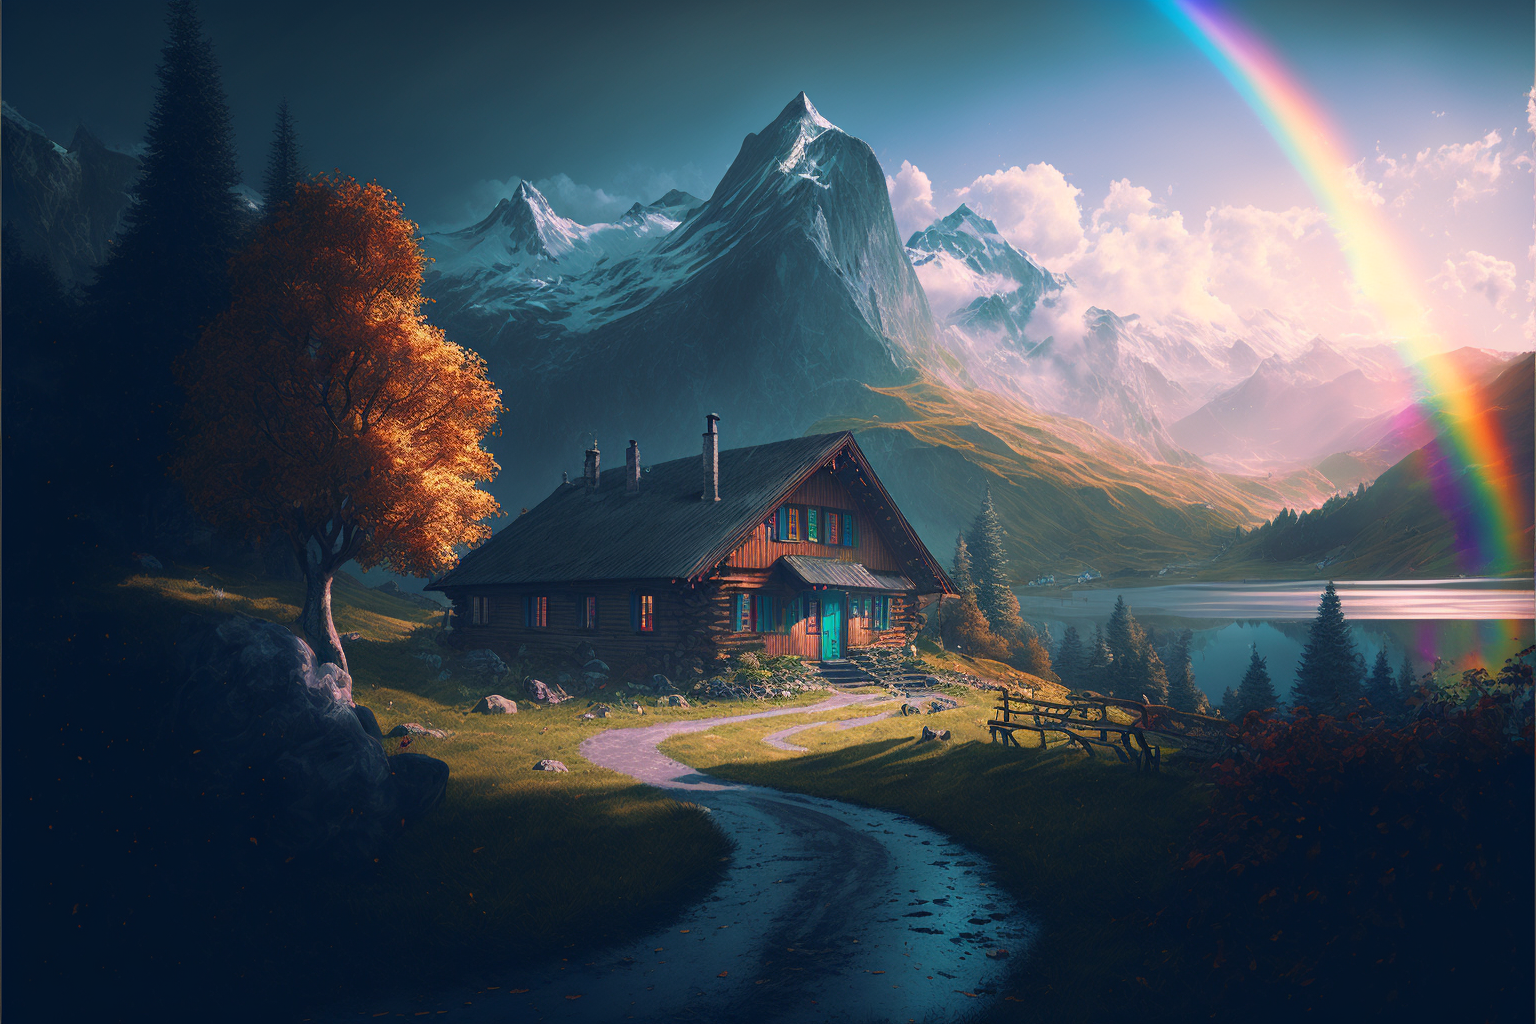
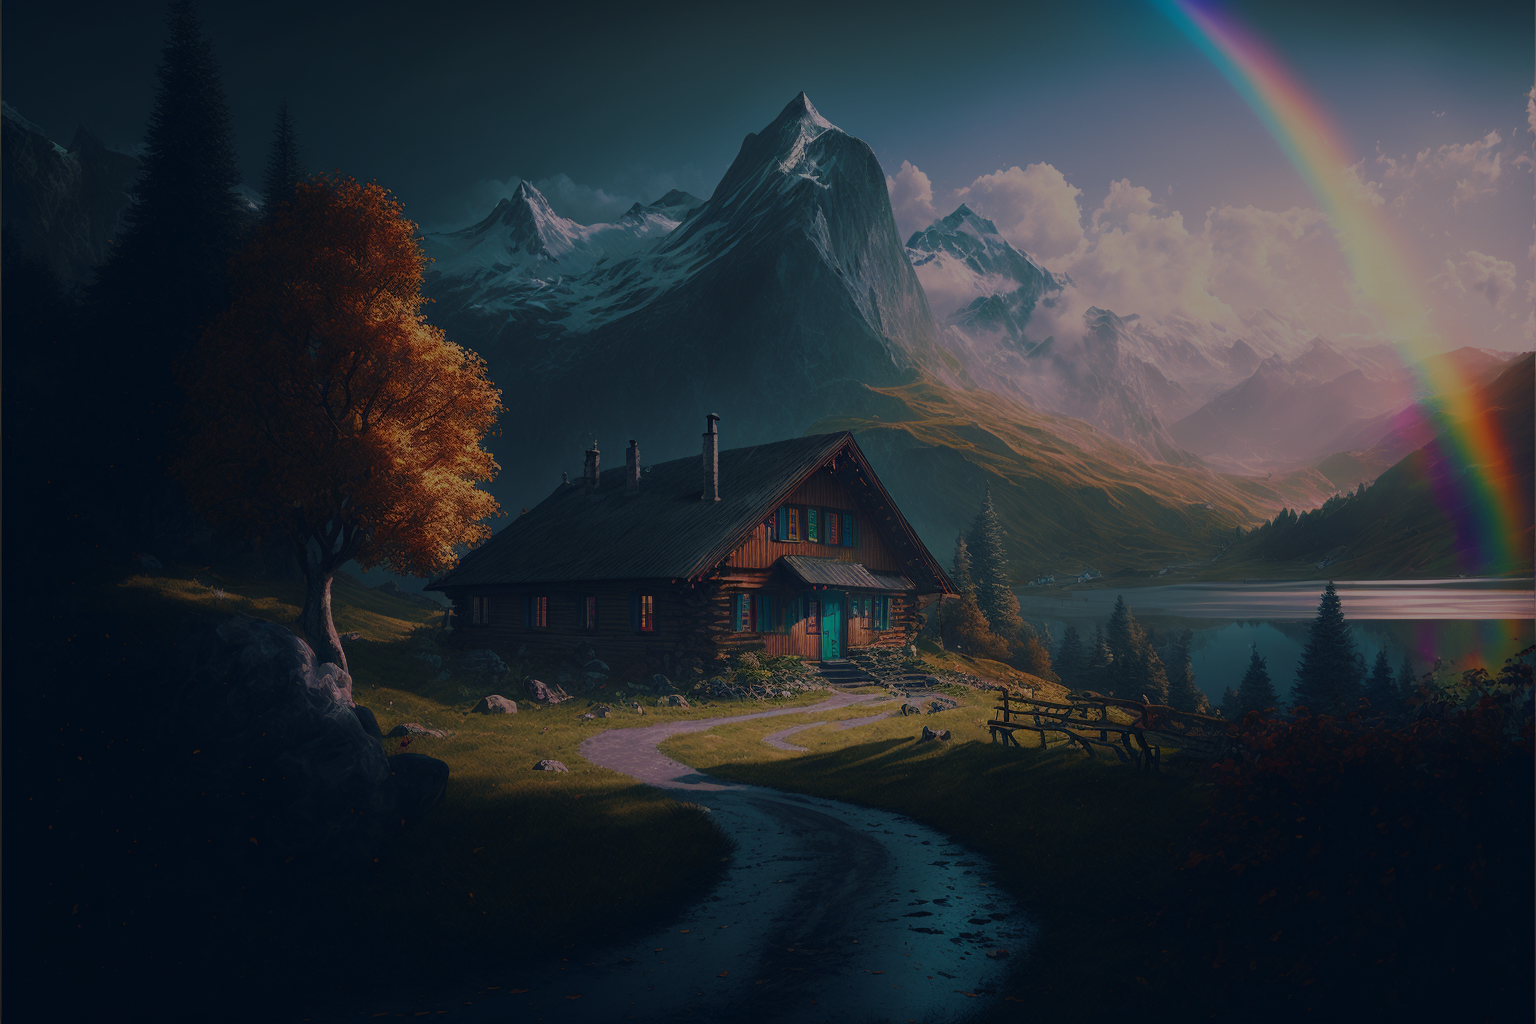
Make our team section responsive

diff --git a/index.html b/index.html
@@ -40,7 +40,7 @@
 
 <body>
 
-    <div class="hero">
+    <section class="hero">
         <div class="inner-hero">
             <h1>Haven</h1>
             <h2>Découvrez<br> l'emplacement idéal pour vous</h2>
@@ -52,10 +52,10 @@
                 Getting Started
             </a>
         </div>
-        <div class="hero-overlay"></div>
+        <!-- <div class="hero-overlay"></div> -->
 
-    </div>
-    <div class="partners">
+    </section>
+    <section class="partners">
         <div class="container">
             <div class="partners-items">
 
@@ -71,8 +71,8 @@
             </div>
         </div>
 
-    </div>
-    <div class="our-features">
+    </section>
+    <section class="our-features">
         <div class="container">
             <div class="features">
                 <div class="features-img">
@@ -88,28 +88,84 @@
                 </div>
             </div>
         </div>
-    </div>
-    <div class="team">
+    </section>
+    <!-- <section class="team">
         <div class="container">
             <div class="team-members">
                 <div class="team-member">
                     <img src="./assets/img/team-member.png" alt="">
-                    <h3>Achraf Lamghari</h3>
+                    <h3>Achraf Lemghari</h3>
                     <p>IMAC Student</p>
                 </div>
                 <div class="team-member">
                     <img src="./assets/img/team-member.png" alt="">
-                    <h3>Achraf Lamghari</h3>
+                    <h3>Achraf Lemghari</h3>
                     <p>IMAC Student</p>
                 </div>
                 <div class="team-member">
                     <img src="./assets/img/team-member.png" alt="">
-                    <h3>Achraf Lamghari</h3>
+                    <h3>Achraf Lemghari</h3>
                     <p>IMAC Student</p>
                 </div>
+
+            </div>
+
+        </div>
+    </section>-->
+    <section class="team">
+        <div class="container">
+            <h2>Notre équipe</h2>
+            <div class="team-members">
+                <div class="team-member">
+                    <a href="https://www.linkedin.com/in/user1">
+                        <div class="member-image">
+                            <img src="./assets/img/team-member.png" alt="Membre de l'équipe 1">
+                        </div>
+                        <h3>Nom du membre 1</h3>
+                    </a>
+                    <a href="https://www.linkedin.com/in/user1" target="_blank"><i class="fab fa-linkedin"></i></a>
+                </div>
+                <div class="team-member">
+                    <a href="https://www.linkedin.com/in/user1">
+                        <div class="member-image">
+                            <img src="./assets/img/team-member.png" alt="Membre de l'équipe 2">
+                        </div>
+                        <h3>Nom du membre 2</h3>
+                    </a>
+                    <a href="https://www.linkedin.com/in/user1" target="_blank"><i class="fab fa-linkedin"></i></a>
+                </div>
+                <div class="team-member">
+                    <a href="https://www.linkedin.com/in/user1">
+                        <div class="member-image">
+                            <img src="./assets/img/team-member.png" alt="Membre de l'équipe 3">
+                        </div>
+                        <h3>Nom du membre 3</h3>
+                    </a>
+                    <a href="https://www.linkedin.com/in/user1" target="_blank"><i class="fab fa-linkedin"></i></a>
+                </div>
+                <div class="team-member">
+                    <a href="https://www.linkedin.com/in/user1">
+                        <div class="member-image">
+                            <img src="./assets/img/team-member.png" alt="Membre de l'équipe 4">
+                        </div>
+                        <h3>Nom du membre 4</h3>
+                    </a>
+                    <a href="https://www.linkedin.com/in/user1" target="_blank"><i class="fab fa-linkedin"></i></a>
+                </div>
+                <div class="team-member">
+                    <a href="https://www.linkedin.com/in/user1">
+                        <div class="member-image">
+                            <img src="./assets/img/team-member.png" alt="Membre de l'équipe 5">
+                        </div>
+                        <h3>Nom du membre 5</h3>
+                    </a>
+                    <a href="https://www.linkedin.com/in/user1" target="_blank"><i class="fab fa-linkedin"></i></a>
+                </div>
+
             </div>
         </div>
-    </div>
+    </section>
+
     <section id="contact">
         <div class="container">
             <h2>Contactez-nous</h2>

diff --git a/src/styles.scss b/src/styles.scss
@@ -6,7 +6,7 @@ body {
 
 .hero {
   height: 100%;
-  background: #020d2b;
+  background: #0E1823;
   display: flex;
   flex-direction: column;
   align-items: center;
@@ -64,7 +64,7 @@ body {
 }
 
 a {
-  text-decoration: underline;
+  text-decoration: none;;
 }
 
 .btn {
@@ -126,7 +126,7 @@ a {
   }
   
 }
-
+/*
 .team {
   background-color: #141731;
   .team-members {
@@ -150,7 +150,105 @@ a {
     }
     
   }
+}*/
+
+
+//test2
+.team {
+  padding: 80px 0;
+  background-color: #0E1823;
 }
+
+.team h2 {
+  color:#ffffff;
+  font-size: 36px;
+  font-weight: bold;
+  margin-bottom: 50px;
+  text-align: center;
+}
+
+.team-members {
+  display: flex;
+  flex-wrap: wrap;
+  justify-content: center;
+}
+
+.team-member {
+  width: calc(20% - 30px);
+  margin: 15px;
+  text-align: center;
+  position: relative;
+}
+
+.member-image {
+  width: 150px;
+  height: 150px;
+  border-radius: 50%;
+  margin: 0 auto;
+  position: relative;
+  overflow: hidden;
+}
+
+.member-image img {
+  width: 100%;
+  height: auto;
+}
+
+.member-counter {
+  background-color: #ffffff;
+  color: #0a71c7;
+  border-radius: 50%;
+  width: 40px;
+  height: 40px;
+  font-size: 20px;
+  font-weight: bold;
+  display: flex;
+  align-items: center;
+  justify-content: center;
+  position: absolute;
+  bottom: -20px;
+  left: 50%;
+  transform: translateX(-50%);
+}
+
+
+.team-member h3 {
+  font-size: 18px;
+  font-weight: bold;
+  margin-top: 20px;
+  margin-bottom: 10px;
+}
+
+.team-member a {
+  font-size: 24px;
+  color: #0a71c7;
+  margin: 10px;
+}
+.team-member:hover {
+  transform: scale(1.05);
+}
+
+.team-member h3 a {
+  font-size: 24px;
+  color: #0a71c7;
+  margin: 10px;
+  text-decoration: none; /* remove underline */
+}
+.team-member h3 a:hover {
+  color: #0E1823; /* change color on hover */
+}
+
+@media (max-width: 768px) {
+  .team-members {
+    flex-direction: column;
+    align-items: center;
+  }
+  
+  .team-member {
+    width: 100%;
+  }
+}
+
 
 #contact {
   background-color: #f7f7f7;
